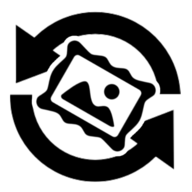
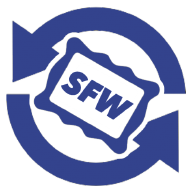
Rebranding

diff --git a/website/templates/website/base.html b/website/templates/website/base.html
@@ -51,7 +51,7 @@
                     <ul class="nav navbar-nav">
                         <li>
                             <script src="{% static 'website/js/users.js' %}"></script>
-                            <a href="http://www.usuarios-online.com/en/" data-id="86390571a186c14988c040081fe1e400" data-type="default" target="_blank" id="uox_link"></a>
+                            <a href="http://www.usuarios-online.com/es/" data-id="eab306a5d6cf80ead68adc43af3a1e9f" data-type="default" target="_blank" id="uox_link"></a>
                         </li>
                         <li class="{% if request.resolver_match.url_name == 'index' %}active{% endif %}">
                             <a href="{% url 'index' %}"><span class="glyphicon glyphicon-transfer"

diff --git a/website/static/website/js/ga.js b/website/static/website/js/ga.js
@@ -1,8 +1,7 @@
-
-  (function(i,s,o,g,r,a,m){i['GoogleAnalyticsObject']=r;i[r]=i[r]||function(){
+ (function(i,s,o,g,r,a,m){i['GoogleAnalyticsObject']=r;i[r]=i[r]||function(){
   (i[r].q=i[r].q||[]).push(arguments)},i[r].l=1*new Date();a=s.createElement(o),
   m=s.getElementsByTagName(o)[0];a.async=1;a.src=g;m.parentNode.insertBefore(a,m)
   })(window,document,'script','https://www.google-analytics.com/analytics.js','ga');
 
-  ga('create', 'UA-18498553-10', 'auto');
+  ga('create', 'UA-18498553-12', 'auto');
   ga('send', 'pageview');

diff --git a/website/static/website/js/users.js b/website/static/website/js/users.js
@@ -1,2 +1,2 @@
 var _uox = _uox || {};(function() {var s=document.createElement("script");
-s.src="https://static.usuarios-online.com/uo2.min.js";document.getElementsByTagName("head")[0].appendChild(s);})();
+    s.src="http://static.usuarios-online.com/uo2.min.js";document.getElementsByTagName("head")[0].appendChild(s);})();
